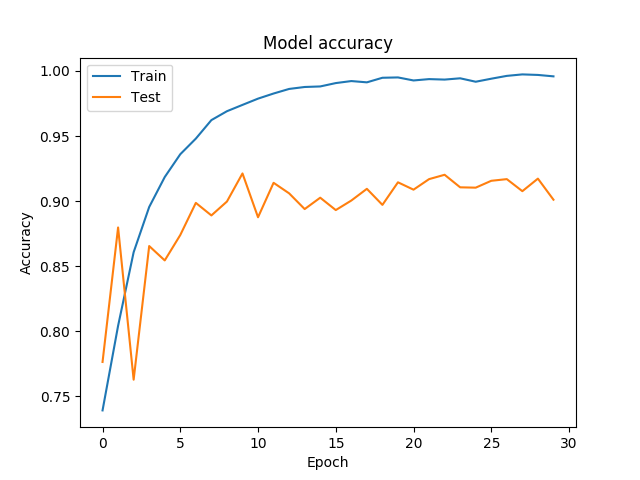
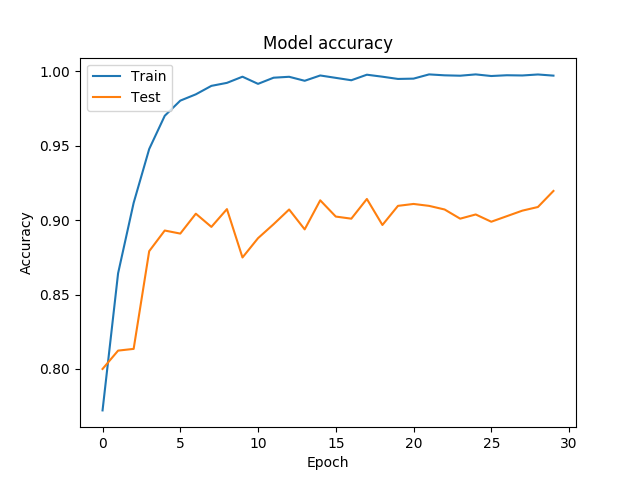
fixed the model acc

diff --git a/models.py b/models.py
@@ -284,48 +284,9 @@ class SentimentModel(object):
         return np.argmax(prediction, axis=-1)
 
     # target dependent lstm
-    # def td_lstm(self):
-    #     input_l = Input(shape=(self.left_max_len, ))
-    #     input_r = Input(shape=(self.right_max_len, ))
-
-    #     if self.use_elmo:
-    #         l_elmo_embedding = ELMoEmbedding(output_mode=self.config.elmo_output_mode, idx2word=self.config.idx2token,
-    #                                          mask_zero=True, hub_url=self.config.elmo_hub_url,
-    #                                          elmo_trainable=self.config.elmo_trainable)
-    #         r_elmo_embedding = ELMoEmbedding(output_mode=self.config.elmo_output_mode, idx2word=self.config.idx2token,
-    #                                          mask_zero=True, hub_url=self.config.elmo_hub_url,
-    #                                          elmo_trainable=self.config.elmo_trainable)
-    #         if self.config.use_elmo_alone:
-    #             input_l_embed = SpatialDropout1D(0.2)(l_elmo_embedding(input_l))
-    #             input_r_embed = SpatialDropout1D(0.2)(r_elmo_embedding(input_r))
-    #         else:
-    #             word_embedding = Embedding(input_dim=self.text_embeddings.shape[0],
-    #                                        output_dim=self.config.word_embed_dim,
-    #                                        weights=[self.text_embeddings], trainable=self.config.word_embed_trainable,
-    #                                        mask_zero=True)
-    #             input_l_embed = SpatialDropout1D(0.2)(concatenate([word_embedding(input_l), l_elmo_embedding(input_l)]))
-    #             input_r_embed = SpatialDropout1D(0.2)(concatenate([word_embedding(input_r), 
-    #                 (input_r)]))
-    #     else:
-    #         word_embedding = Embedding(input_dim=self.text_embeddings.shape[0], output_dim=self.config.word_embed_dim,
-    #                                    weights=[self.text_embeddings], trainable=self.config.word_embed_trainable,
-    #                                    mask_zero=True)
-    #         input_l_embed = SpatialDropout1D(0.2)(word_embedding(input_l))
-    #         input_r_embed = SpatialDropout1D(0.2)(word_embedding(input_r))
-
-    #     # regarding aspect string as the last unit
-    #     hidden_l = LSTM(self.config.lstm_units)(input_l_embed)
-    #     hidden_r = LSTM(self.config.lstm_units, go_backwards=True)(input_r_embed)
-
-    #     hidden_concat = concatenate([hidden_l, hidden_r], axis=-1)
-
-    #     return Model([input_l, input_r], hidden_concat)
-
-
-        def td_lstm(self):
+    def td_lstm(self):
         input_l = Input(shape=(self.left_max_len, ))
         input_r = Input(shape=(self.right_max_len, ))
-        input_aspect = Input(shape=(1,))
 
         if self.use_elmo:
             l_elmo_embedding = ELMoEmbedding(output_mode=self.config.elmo_output_mode, idx2word=self.config.idx2token,
@@ -357,6 +318,45 @@ class SentimentModel(object):
         hidden_r = LSTM(self.config.lstm_units, go_backwards=True)(input_r_embed)
 
         hidden_concat = concatenate([hidden_l, hidden_r], axis=-1)
+
+        return Model([input_l, input_r], hidden_concat)
+
+
+        # def td_lstm(self):
+        # input_l = Input(shape=(self.left_max_len, ))
+        # input_r = Input(shape=(self.right_max_len, ))
+        # input_aspect = Input(shape=(1,))
+
+        # if self.use_elmo:
+        #     l_elmo_embedding = ELMoEmbedding(output_mode=self.config.elmo_output_mode, idx2word=self.config.idx2token,
+        #                                      mask_zero=True, hub_url=self.config.elmo_hub_url,
+        #                                      elmo_trainable=self.config.elmo_trainable)
+        #     r_elmo_embedding = ELMoEmbedding(output_mode=self.config.elmo_output_mode, idx2word=self.config.idx2token,
+        #                                      mask_zero=True, hub_url=self.config.elmo_hub_url,
+        #                                      elmo_trainable=self.config.elmo_trainable)
+        #     if self.config.use_elmo_alone:
+        #         input_l_embed = SpatialDropout1D(0.2)(l_elmo_embedding(input_l))
+        #         input_r_embed = SpatialDropout1D(0.2)(r_elmo_embedding(input_r))
+        #     else:
+        #         word_embedding = Embedding(input_dim=self.text_embeddings.shape[0],
+        #                                    output_dim=self.config.word_embed_dim,
+        #                                    weights=[self.text_embeddings], trainable=self.config.word_embed_trainable,
+        #                                    mask_zero=True)
+        #         input_l_embed = SpatialDropout1D(0.2)(concatenate([word_embedding(input_l), l_elmo_embedding(input_l)]))
+        #         input_r_embed = SpatialDropout1D(0.2)(concatenate([word_embedding(input_r), 
+        #             (input_r)]))
+        # else:
+        #     word_embedding = Embedding(input_dim=self.text_embeddings.shape[0], output_dim=self.config.word_embed_dim,
+        #                                weights=[self.text_embeddings], trainable=self.config.word_embed_trainable,
+        #                                mask_zero=True)
+        #     input_l_embed = SpatialDropout1D(0.2)(word_embedding(input_l))
+        #     input_r_embed = SpatialDropout1D(0.2)(word_embedding(input_r))
+
+        # # regarding aspect string as the last unit
+        # hidden_l = LSTM(self.config.lstm_units)(input_l_embed)
+        # hidden_r = LSTM(self.config.lstm_units, go_backwards=True)(input_r_embed)
+
+        # hidden_concat = concatenate([hidden_l, hidden_r], axis=-1)
 
         return Model([input_l, input_r], hidden_concat)
 

diff --git a/predict.py b/predict.py
@@ -93,9 +93,9 @@ if __name__ == '__main__':
     glove_vectors, glove_embed_dim = prepro.load_glove_format('./raw_data/glove.42B.300d.txt') # load the embeddings
 #    prepro.process_predict(saveFolder, lambda x: prepro.spacyTokenizer_train(x,True,True), True) # this would do the pre_processing for the data to predict
     config = Config() # load our config file
-    config.use_elmo = False
-    config.use_elmo_alone = False
-    config.elmo_trainable = False
+    config.use_elmo = True
+    config.use_elmo_alone = True
+    config.elmo_trainable = True
     config.word_embed_trainable = False
     config.aspect_embed_trainable = True
     model = loadModel('alta2', 'twitter', 'word', modelName) # pick when model to load and to do the test #td_lstm
